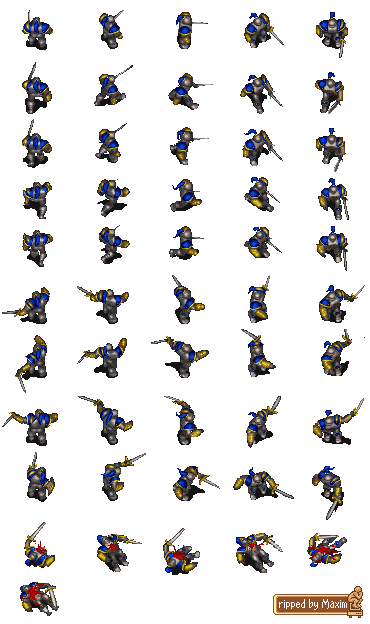
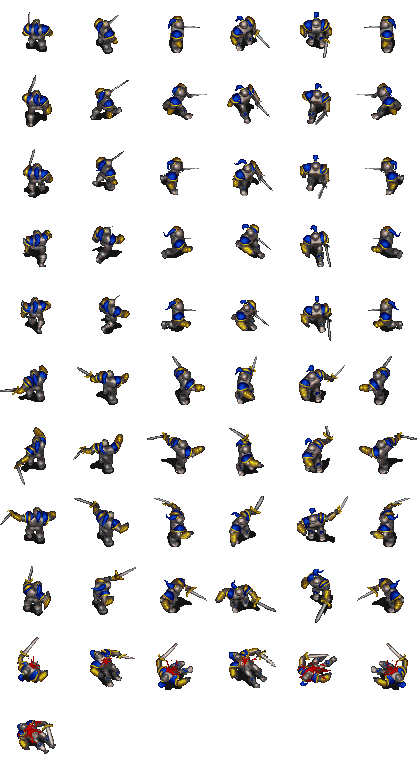
fixed footman sprite, added collision, fixing it

diff --git a/gamePhaser/js/game.js b/gamePhaser/js/game.js
@@ -5,9 +5,9 @@ var game = new Phaser.Game(800, 600, Phaser.AUTO, 'phaser-example', { preload: p
 
 function preload() {
 
-    game.load.tilemap('map', 'assets/mapWegas.json', null, Phaser.Tilemap.TILED_JSON);
+    game.load.tilemap('map', 'assets/mapWegasJSON.json', null, Phaser.Tilemap.TILED_JSON);
     game.load.image('tiles', 'assets/img/summer.png');
-    game.load.spritesheet('player', 'assets/img/Footman.png', 74, 57);
+    game.load.spritesheet('player', 'assets/img/Footman.png', 70, 70);
 }
 
 var map;
@@ -22,8 +22,10 @@ function create() {
 
     //  Now add in the tileset
     map.addTilesetImage('summer','tiles');
+    map.setCollisionBetween(334,355);
+
     //  Create our layer
-    layer = map.createLayer('World1');
+    layer = map.createLayer('Layer1');
     //  Resize the world
     layer.resizeWorld();
     //  Allow cursors to scroll around the map
@@ -33,26 +35,30 @@ function create() {
         down: game.input.keyboard.addKey(Phaser.Keyboard.S),
         left: game.input.keyboard.addKey(Phaser.Keyboard.A),
         right: game.input.keyboard.addKey(Phaser.Keyboard.D),
+        attack: game.input.keyboard.addKey(Phaser.Keyboard.K)
     };
 
-    player = game.add.sprite(330, 240, 'player', 4);
-    player.animations.add('left', [8,9], 10, true);
-    player.animations.add('right', [1,2], 10, true);
-    player.animations.add('up', [5,10,15,20,10], 10, true);
-    player.animations.add('down', [4,5,6], 10, true);
+    player = game.add.sprite(330, 440, 'player', 4);
+    player.animations.add('left', [5,11,17,23], 5, true);
+    player.animations.add('right', [2,8,14,20], 5, true);
+    player.animations.add('up', [6,12,18,24], 5, true);
+    player.animations.add('down', [10,16,22,28], 5, true);
+    player.animations.add('attack', [30,36,42,48], 5, true);
+
 
     game.physics.enable(player, Phaser.Physics.ARCADE);
+    player.body.setSize(32, 32);
 
 
-    player.body.setSize(10, 14, 2, 1);
-    player.arcade.gravity = 0;
+
 
 }
 
 function update() {
+    game.physics.arcade.collide(player, layer);
 
     updateCamera();
-    updatePlayer();
+    updatePlayer(80);
 
 }
 
@@ -82,29 +88,40 @@ function updateCamera()
     }
 }
 
-function updatePlayer()
+function updatePlayer(speed)
 {
     //game.physics.arcade.collide(player, layer);
     player.body.velocity.set(0);
-    if(keys.up.isDown)
+    var stopAct;
+
+    if(keys.attack.isDown)
     {
-        player.body.velocity.y = -50;
+        player.play('attack');
+    } else if(keys.up.isDown)
+    {
+        player.body.velocity.y = -speed;
         player.play('up');
+        stopAct = 0;
     }
     else if (keys.down.isDown) {
-        player.body.velocity.x = 50;
+        player.body.velocity.y = speed;
         player.play('down');
+        stopAct = 4;
     }
     else if (keys.left.isDown) {
-        player.body.velocity.x = 50;
-        player.play('down');
+        player.body.velocity.x = - speed;
+        player.play('left');
+        stopAct = 5;
     }
     else if (keys.right.isDown) {
-        player.body.velocity.x = 50;
-        player.play('down');
+        player.body.velocity.x = speed;
+        player.play('right');
+        stopAct = 2;
     }
     else
     {
+        player.frame = stopAct;
         player.animations.stop();
     }
+
 }
